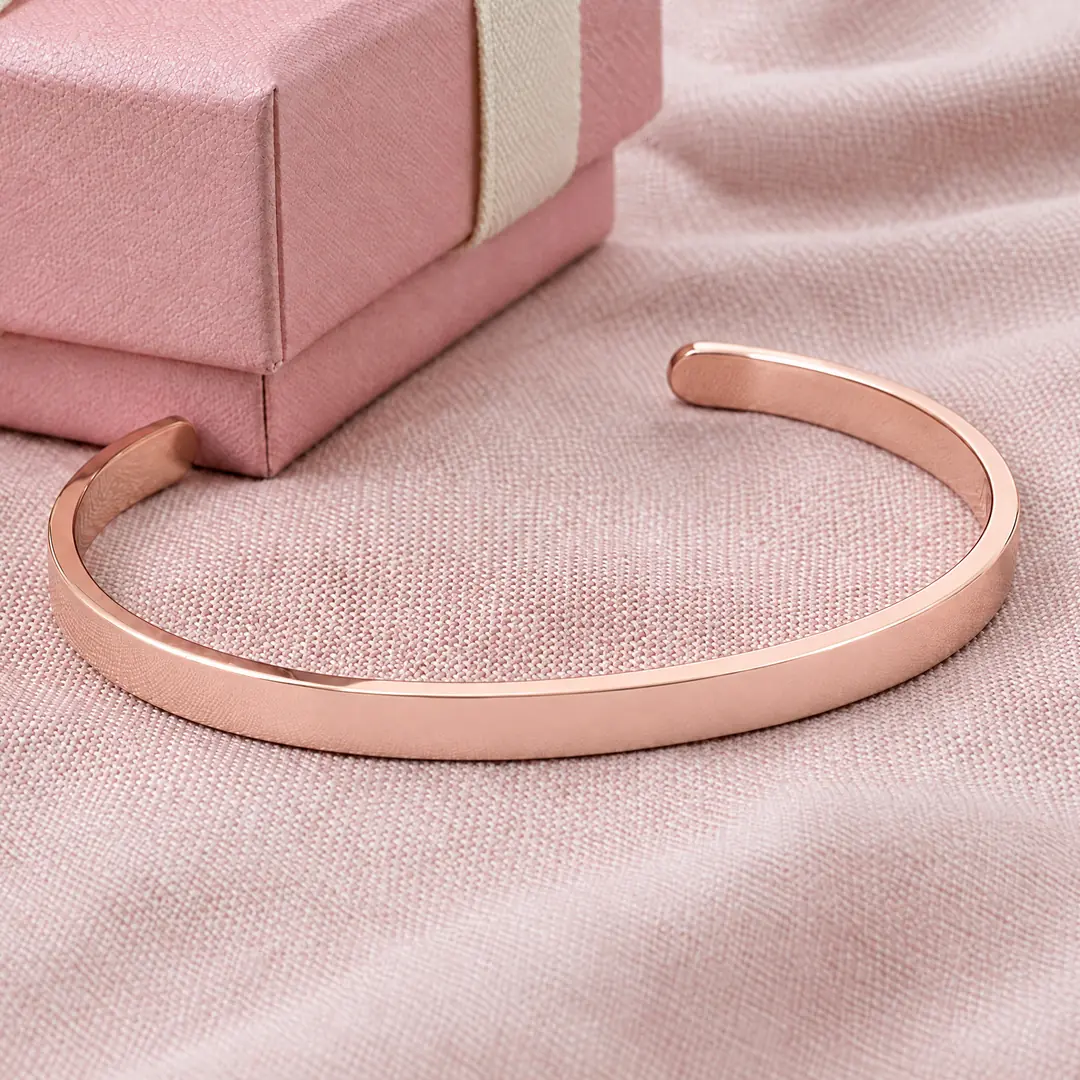
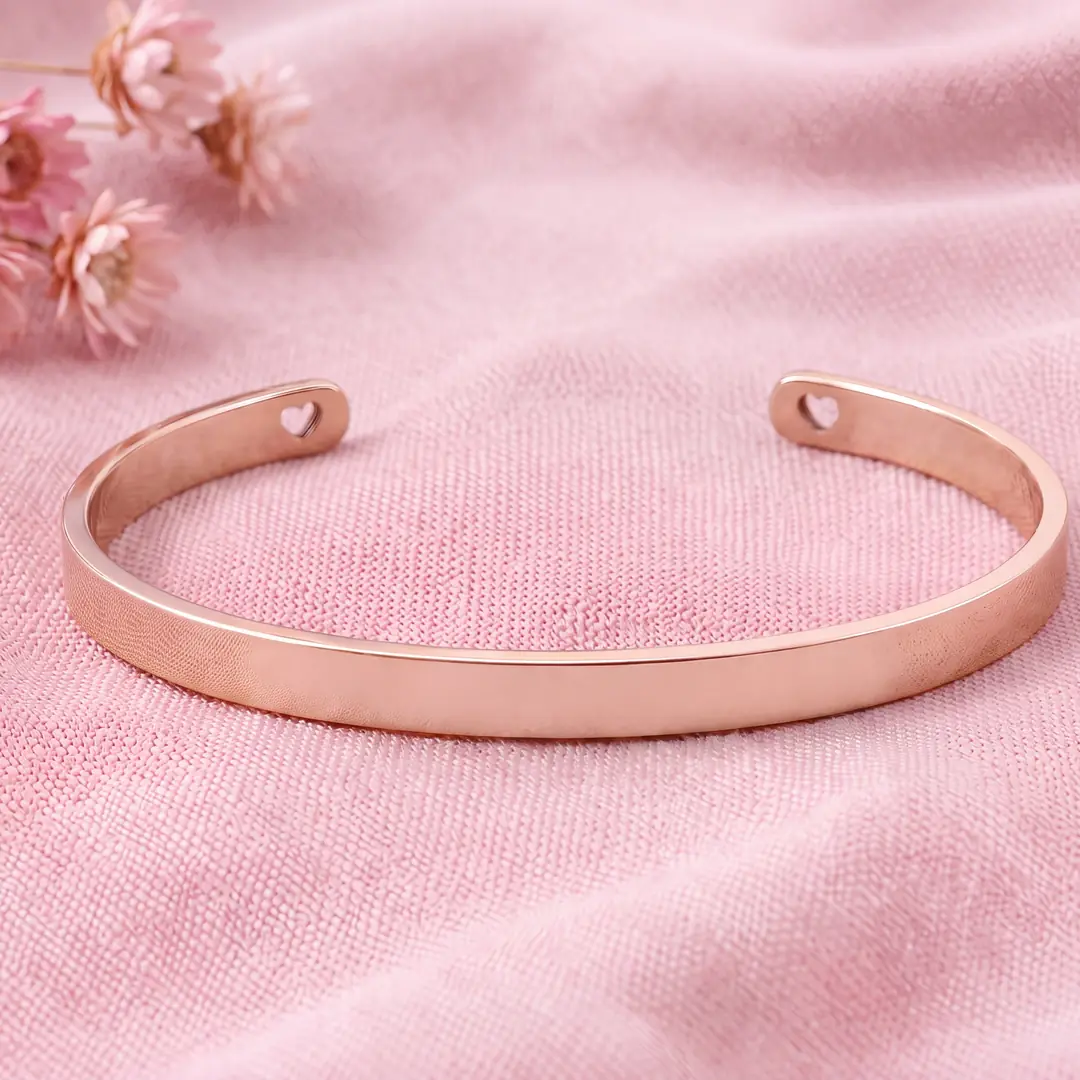
Aperçu de gravure du jonc refait avec le vrai jonc fin à cœurs (3 finitions)
Claude-Session: https://claude.ai/code/session_01V1qef2qtgCXfKwWV2d1vvY

diff --git a/theme-lou/assets/lou.js b/theme-lou/assets/lou.js
@@ -291,17 +291,19 @@
   if (LOU.cart && LOU.cart.items) { dejaDuo = LOU.cart.item_count >= 2; dessinerPanier(LOU.cart); }
 
   /* ---------- Gravure réaliste sur la photo du jonc ----------
-     Bords de la face avant mesurés sur la photo du jonc vierge (repère : recadrage 920×460 placé en x=90, y=360 de l'image
-     1024×1024 ; un point tous les 10 px à partir de x=100). Le texte est écrit à plat sur une bande « déroulée », puis replié
-     colonne par colonne entre le bord haut et le bord bas de la face (les verticales restent verticales, comme sur un cylindre) ;
-     il se resserre vers les côtés (x = cx + a·sin θ). « vue » = zone de l'image 1024 affichée (accueil : bande ; fiche : carré).
-     Si on change la photo : re-mesurer haut/bas/cx/a (méthode dans docs/journal.md, 02/11/2026). */
+     Jonc réel (05/11/2026) : jonc ouvert fin (≈ 4 mm), petit cœur ajouré à chaque extrémité. Photo vierge 3 finitions
+     contenu/lou/jonc-vierge-v3/ (même cadrage que la photo produit de la fiche). Bords de la face avant mesurés sur cette photo
+     dans le repère 1024×1024 de l'image entière (un point tous les 10 px à partir de x=100 ; dégradé de luminosité colonne par
+     colonne, moyenne des 3 finitions, lissage polynôme degré 4, écart < 2 px). Le texte est écrit à plat sur une bande
+     « déroulée », puis replié colonne par colonne entre le bord haut et le bord bas de la face (les verticales restent
+     verticales, comme sur un cylindre) ; il se resserre vers les côtés (x = cx + a·sin θ). « vue » = zone de l'image 1024
+     affichée (accueil : bande ; fiche : carré ; vignette : plein). Si on change la photo : re-mesurer (scripts/mesure_jonc.py). */
   var JONC = {
-    x0: 100, pas: 10, cx: 450, a: 410, xg: 125, xd: 800, zone: 0.78, ecrase: 0.85,
-    haut: [281.6,286.6,291.3,295.7,299.7,303.5,307.0,310.3,313.3,316.1,318.6,321.0,323.1,325.1,326.8,328.4,329.9,331.2,332.3,333.4,334.2,335.0,335.7,336.2,336.6,337.0,337.2,337.4,337.5,337.5,337.4,337.3,337.1,336.8,336.4,336.0,335.5,335.0,334.4,333.7,333.0,332.1,331.3,330.3,329.3,328.2,327.0,325.8,324.4,323.0,321.5,319.8,318.1,316.2,314.3,312.2,309.9,307.5,305.0,302.3,299.4,296.4,293.2,289.7,286.1,282.2,278.1,273.8,269.1,264.3,259.1,253.6,247.9,241.8],
-    bas: [327.1,332.4,337.5,342.2,346.6,350.7,354.5,358.1,361.4,364.4,367.2,369.8,372.2,374.4,376.4,378.3,379.9,381.4,382.7,383.9,385.0,385.9,386.7,387.4,387.9,388.4,388.7,389.0,389.1,389.2,389.2,389.1,388.9,388.6,388.3,387.8,387.3,386.8,386.1,385.4,384.6,383.7,382.8,381.8,380.6,379.4,378.1,376.8,375.3,373.7,372.0,370.2,368.3,366.3,364.1,361.8,359.4,356.8,354.1,351.1,348.1,344.8,341.3,337.6,333.8,329.6,325.3,320.7,315.8,310.7,305.2,299.5,293.5,287.1]
+    x0: 100, pas: 10, cx: 535, a: 422, xg: 215, xd: 855, zone: 0.74, ecrase: 0.85, hFace: 62,
+    haut: [579.9,586.4,592.6,598.5,604.0,609.2,614.2,618.8,623.2,627.3,631.2,634.8,638.2,641.4,644.4,647.2,649.8,652.3,654.5,656.6,658.6,660.4,662.1,663.6,665.1,666.4,667.6,668.7,669.7,670.6,671.4,672.2,672.8,673.4,673.9,674.4,674.7,675.1,675.3,675.5,675.7,675.7,675.8,675.8,675.7,675.5,675.4,675.1,674.8,674.5,674.1,673.6,673.0,672.4,671.8,671.0,670.2,669.3,668.3,667.2,666.0,664.8,663.4,661.9,660.3,658.5,656.7,654.7,652.5,650.2,647.7,645.1,642.2,639.2,636.0,632.6,628.9,625.1,620.9,616.6,611.9,607.0,601.8,596.3,590.5,584.4,577.9,571.0],
+    bas: [633.6,640.7,647.3,653.7,659.6,665.2,670.6,675.6,680.3,684.8,688.9,692.9,696.6,700.0,703.3,706.3,709.1,711.8,714.2,716.5,718.7,720.6,722.5,724.2,725.7,727.2,728.5,729.7,730.8,731.8,732.7,733.6,734.3,735.0,735.6,736.1,736.5,736.9,737.2,737.4,737.6,737.7,737.8,737.8,737.7,737.6,737.5,737.2,736.9,736.6,736.1,735.7,735.1,734.5,733.7,733.0,732.1,731.1,730.1,728.9,727.7,726.3,724.8,723.2,721.5,719.6,717.6,715.5,713.1,710.6,708.0,705.1,702.1,698.8,695.4,691.7,687.7,683.6,679.1,674.4,669.4,664.1,658.5,652.5,646.2,639.6,632.6,625.2]
   };
-  var VUES = { bande: { x0: 90, y0: 360, w: 920, h: 460 }, carre: { x0: 90, y0: 104, w: 920, h: 920 }, plein: { x0: 0, y0: 0, w: 1024, h: 1024 } };
+  var VUES = { bande: { x0: 72, y0: 380, w: 920, h: 460 }, carre: { x0: 62, y0: 124, w: 900, h: 900 }, plein: { x0: 0, y0: 0, w: 1024, h: 1024 } };
   var bordJonc = function (t, x) {
     var k = (x - JONC.x0) / JONC.pas, i = Math.max(0, Math.min(t.length - 2, Math.floor(k))), f = k - i;
     return t[i] + (t[i + 1] - t[i]) * f;
@@ -331,7 +333,7 @@
     if (!W || !H || !img.complete || !img.naturalWidth) return null;
     var dpr = Math.min(window.devicePixelRatio || 1, 2.5), vue = VUES[opts.vue || "bande"];
     canvas.width = Math.round(W * dpr); canvas.height = Math.round(H * dpr);
-    var s = canvas.width / vue.w, ox = 90 - vue.x0, oy = 360 - vue.y0, ctx = canvas.getContext("2d");
+    var s = canvas.width / vue.w, ox = -vue.x0, oy = -vue.y0, ctx = canvas.getContext("2d");
     ctx.clearRect(0, 0, canvas.width, canvas.height);
     if (opts.fond !== false) ctx.drawImage(img, 0, 0, canvas.width, canvas.height);
     if (!texte) return null;
@@ -339,7 +341,7 @@
     if (P.maj) texte = texte.toUpperCase();
     var J = JONC, thG = Math.asin((J.xg - J.cx) / J.a), thD = Math.asin((J.xd - J.cx) / J.a), dTh = thD - thG;
     // 1. Bande déroulée (sur-échantillonnée ×2)
-    var hFace = 52, SH = Math.ceil(hFace * J.zone / J.ecrase * s * 2), SW = Math.ceil(J.a * dTh * s * 2);
+    var hFace = J.hFace, SH = Math.ceil(hFace * J.zone / J.ecrase * s * 2), SW = Math.ceil(J.a * dTh * s * 2);
     var bande = calque(SW, SH), b = bande.getContext("2d");
     b.font = policeCss(P, 100); b.textBaseline = "alphabetic";
     var m = b.measureText(texte), ref = b.measureText(P.ref);

diff --git a/theme/assets/lou.js b/theme/assets/lou.js
@@ -291,17 +291,19 @@
   if (LOU.cart && LOU.cart.items) { dejaDuo = LOU.cart.item_count >= 2; dessinerPanier(LOU.cart); }
 
   /* ---------- Gravure réaliste sur la photo du jonc ----------
-     Bords de la face avant mesurés sur la photo du jonc vierge (repère : recadrage 920×460 placé en x=90, y=360 de l'image
-     1024×1024 ; un point tous les 10 px à partir de x=100). Le texte est écrit à plat sur une bande « déroulée », puis replié
-     colonne par colonne entre le bord haut et le bord bas de la face (les verticales restent verticales, comme sur un cylindre) ;
-     il se resserre vers les côtés (x = cx + a·sin θ). « vue » = zone de l'image 1024 affichée (accueil : bande ; fiche : carré).
-     Si on change la photo : re-mesurer haut/bas/cx/a (méthode dans docs/journal.md, 02/11/2026). */
+     Jonc réel (05/11/2026) : jonc ouvert fin (≈ 4 mm), petit cœur ajouré à chaque extrémité. Photo vierge 3 finitions
+     contenu/lou/jonc-vierge-v3/ (même cadrage que la photo produit de la fiche). Bords de la face avant mesurés sur cette photo
+     dans le repère 1024×1024 de l'image entière (un point tous les 10 px à partir de x=100 ; dégradé de luminosité colonne par
+     colonne, moyenne des 3 finitions, lissage polynôme degré 4, écart < 2 px). Le texte est écrit à plat sur une bande
+     « déroulée », puis replié colonne par colonne entre le bord haut et le bord bas de la face (les verticales restent
+     verticales, comme sur un cylindre) ; il se resserre vers les côtés (x = cx + a·sin θ). « vue » = zone de l'image 1024
+     affichée (accueil : bande ; fiche : carré ; vignette : plein). Si on change la photo : re-mesurer (scripts/mesure_jonc.py). */
   var JONC = {
-    x0: 100, pas: 10, cx: 450, a: 410, xg: 125, xd: 800, zone: 0.78, ecrase: 0.85,
-    haut: [281.6,286.6,291.3,295.7,299.7,303.5,307.0,310.3,313.3,316.1,318.6,321.0,323.1,325.1,326.8,328.4,329.9,331.2,332.3,333.4,334.2,335.0,335.7,336.2,336.6,337.0,337.2,337.4,337.5,337.5,337.4,337.3,337.1,336.8,336.4,336.0,335.5,335.0,334.4,333.7,333.0,332.1,331.3,330.3,329.3,328.2,327.0,325.8,324.4,323.0,321.5,319.8,318.1,316.2,314.3,312.2,309.9,307.5,305.0,302.3,299.4,296.4,293.2,289.7,286.1,282.2,278.1,273.8,269.1,264.3,259.1,253.6,247.9,241.8],
-    bas: [327.1,332.4,337.5,342.2,346.6,350.7,354.5,358.1,361.4,364.4,367.2,369.8,372.2,374.4,376.4,378.3,379.9,381.4,382.7,383.9,385.0,385.9,386.7,387.4,387.9,388.4,388.7,389.0,389.1,389.2,389.2,389.1,388.9,388.6,388.3,387.8,387.3,386.8,386.1,385.4,384.6,383.7,382.8,381.8,380.6,379.4,378.1,376.8,375.3,373.7,372.0,370.2,368.3,366.3,364.1,361.8,359.4,356.8,354.1,351.1,348.1,344.8,341.3,337.6,333.8,329.6,325.3,320.7,315.8,310.7,305.2,299.5,293.5,287.1]
+    x0: 100, pas: 10, cx: 535, a: 422, xg: 215, xd: 855, zone: 0.74, ecrase: 0.85, hFace: 62,
+    haut: [579.9,586.4,592.6,598.5,604.0,609.2,614.2,618.8,623.2,627.3,631.2,634.8,638.2,641.4,644.4,647.2,649.8,652.3,654.5,656.6,658.6,660.4,662.1,663.6,665.1,666.4,667.6,668.7,669.7,670.6,671.4,672.2,672.8,673.4,673.9,674.4,674.7,675.1,675.3,675.5,675.7,675.7,675.8,675.8,675.7,675.5,675.4,675.1,674.8,674.5,674.1,673.6,673.0,672.4,671.8,671.0,670.2,669.3,668.3,667.2,666.0,664.8,663.4,661.9,660.3,658.5,656.7,654.7,652.5,650.2,647.7,645.1,642.2,639.2,636.0,632.6,628.9,625.1,620.9,616.6,611.9,607.0,601.8,596.3,590.5,584.4,577.9,571.0],
+    bas: [633.6,640.7,647.3,653.7,659.6,665.2,670.6,675.6,680.3,684.8,688.9,692.9,696.6,700.0,703.3,706.3,709.1,711.8,714.2,716.5,718.7,720.6,722.5,724.2,725.7,727.2,728.5,729.7,730.8,731.8,732.7,733.6,734.3,735.0,735.6,736.1,736.5,736.9,737.2,737.4,737.6,737.7,737.8,737.8,737.7,737.6,737.5,737.2,736.9,736.6,736.1,735.7,735.1,734.5,733.7,733.0,732.1,731.1,730.1,728.9,727.7,726.3,724.8,723.2,721.5,719.6,717.6,715.5,713.1,710.6,708.0,705.1,702.1,698.8,695.4,691.7,687.7,683.6,679.1,674.4,669.4,664.1,658.5,652.5,646.2,639.6,632.6,625.2]
   };
-  var VUES = { bande: { x0: 90, y0: 360, w: 920, h: 460 }, carre: { x0: 90, y0: 104, w: 920, h: 920 }, plein: { x0: 0, y0: 0, w: 1024, h: 1024 } };
+  var VUES = { bande: { x0: 72, y0: 380, w: 920, h: 460 }, carre: { x0: 62, y0: 124, w: 900, h: 900 }, plein: { x0: 0, y0: 0, w: 1024, h: 1024 } };
   var bordJonc = function (t, x) {
     var k = (x - JONC.x0) / JONC.pas, i = Math.max(0, Math.min(t.length - 2, Math.floor(k))), f = k - i;
     return t[i] + (t[i + 1] - t[i]) * f;
@@ -331,7 +333,7 @@
     if (!W || !H || !img.complete || !img.naturalWidth) return null;
     var dpr = Math.min(window.devicePixelRatio || 1, 2.5), vue = VUES[opts.vue || "bande"];
     canvas.width = Math.round(W * dpr); canvas.height = Math.round(H * dpr);
-    var s = canvas.width / vue.w, ox = 90 - vue.x0, oy = 360 - vue.y0, ctx = canvas.getContext("2d");
+    var s = canvas.width / vue.w, ox = -vue.x0, oy = -vue.y0, ctx = canvas.getContext("2d");
     ctx.clearRect(0, 0, canvas.width, canvas.height);
     if (opts.fond !== false) ctx.drawImage(img, 0, 0, canvas.width, canvas.height);
     if (!texte) return null;
@@ -339,7 +341,7 @@
     if (P.maj) texte = texte.toUpperCase();
     var J = JONC, thG = Math.asin((J.xg - J.cx) / J.a), thD = Math.asin((J.xd - J.cx) / J.a), dTh = thD - thG;
     // 1. Bande déroulée (sur-échantillonnée ×2)
-    var hFace = 52, SH = Math.ceil(hFace * J.zone / J.ecrase * s * 2), SW = Math.ceil(J.a * dTh * s * 2);
+    var hFace = J.hFace, SH = Math.ceil(hFace * J.zone / J.ecrase * s * 2), SW = Math.ceil(J.a * dTh * s * 2);
     var bande = calque(SW, SH), b = bande.getContext("2d");
     b.font = policeCss(P, 100); b.textBaseline = "alphabetic";
     var m = b.measureText(texte), ref = b.measureText(P.ref);

diff --git a/scripts/assets_theme.py b/scripts/assets_theme.py
@@ -68,20 +68,15 @@ d.text((64, 62), "L", font=f, fill="white", anchor="mm")
 fv.save(os.path.join(A, "favicon.png"))
 print("favicon.png")
 
-# Atelier de gravure (accueil + fiche du jonc) : photo du jonc vierge dans les 3 finitions, recadrée autour du jonc.
-# Recadrage x 90→1010, y 360→820 du repère 1024×1024 (×2 sur les images HD 2048). Les bords de la face avant
-# (tables JONC de lou.js, repère 920×460) restent valables tant que ce recadrage et la photo ne changent pas.
-for nom, dest in [("produit-jonc-vierge-hd", "jonc-vierge.webp"), ("produit-jonc-vierge-doree-hd", "jonc-vierge-doree.webp"),
-                  ("produit-jonc-vierge-rosee-hd", "jonc-vierge-rosee.webp")]:
-    src = trouver(nom)
-    im = Image.open(src).convert("RGB"); k = im.width / 1024
-    enregistrer(im.crop((round(90 * k), round(360 * k), round(1010 * k), round(820 * k))), dest, 1080, 76)
-
-# Fiche du jonc : même photo en carré (x 90→1010, y 104→1024 du repère 1024)
-for nom, dest in [("produit-jonc-vierge-hd", "jonc-carre.webp"), ("produit-jonc-vierge-doree-hd", "jonc-carre-doree.webp"),
-                  ("produit-jonc-vierge-rosee-hd", "jonc-carre-rosee.webp")]:
-    im = Image.open(trouver(nom)).convert("RGB"); k = im.width / 1024
-    enregistrer(im.crop((round(90 * k), round(104 * k), round(1010 * k), round(1024 * k))), dest, 1080, 74)
+# Atelier de gravure (accueil + fiche du jonc) : jonc réel fin à cœurs, vierge, 3 finitions (contenu/lou/jonc-vierge-v3, 05/11).
+# Bande (accueil) : x 72→992, y 380→840 du repère 1024 ; carré (fiche) : x 62→962, y 124→1024. Ces zones = VUES de lou.js ;
+# les bords de la face (tables JONC, repère 1024 de l'image entière) restent valables tant que la photo ne change pas.
+JV = os.path.join(ROOT, "contenu/lou/jonc-vierge-v3/jonc-vierge-{}.jpg")
+for fin, bande, carre in [("argentee", "jonc-vierge.webp", "jonc-carre.webp"), ("doree", "jonc-vierge-doree.webp", "jonc-carre-doree.webp"),
+                          ("rosee", "jonc-vierge-rosee.webp", "jonc-carre-rosee.webp")]:
+    im = Image.open(JV.format(fin)).convert("RGB"); k = im.width / 1024
+    enregistrer(im.crop((round(72 * k), round(380 * k), round(992 * k), round(840 * k))), bande, 1080, 76)
+    enregistrer(im.crop((round(62 * k), round(124 * k), round(962 * k), round(1024 * k))), carre, 1080, 74)
 
 # Collier prénom (aperçu en direct) : chaîne sans pendentif, 3 finitions. Le bas des deux brins (sous y = 640, anneaux
 # compris) est effacé : le thème redessine les brins jusqu'aux bords du prénom, qui s'écartent ou se resserrent selon
@@ -128,7 +123,7 @@ enregistrer(Image.open(trouver("produit-collier-photo-1-hd", "produit-collier-ph
 
 # Vignettes produits animées (lou.js) : jonc vierge plein cadre (même cadrage que la photo produit), collier sans prénom,
 # photos d'exemple pour la bulle du collier photo
-enregistrer(Image.open(trouver("produit-jonc-vierge-hd")).convert("RGB"), "jonc-vierge-plein.webp", 560, 74)
+enregistrer(Image.open(JV.format("argentee")).convert("RGB"), "jonc-vierge-plein.webp", 560, 74)   # même cadrage que la photo produit (fiches-v3/jonc-1-produit)
 enregistrer(Image.open(os.path.join(A, "collier-vierge.webp")).convert("RGB"), "collier-vierge-carte.webp", 560, 74)
 _cp = Image.open(trouver("produit-collier-photo-1-hd")).convert("RGB").resize((1200, 1200), Image.LANCZOS)
 enregistrer(_cp.crop((724, 274, 1053, 603)), "souvenir-couple.webp", 320, 76)

diff --git a/scripts/mesure_jonc.py b/scripts/mesure_jonc.py
@@ -1,0 +1,26 @@
+"""Mesure les bords de la face avant du jonc vierge (contenu/lou/jonc-vierge-v3, repère 1024) → tables JONC de theme-lou/assets/lou.js.
+Lancer depuis la racine du dépôt : python3 scripts/mesure_jonc.py (les estimations visuelles xs/ht/bs guident la détection)."""
+from PIL import Image, ImageFilter; import numpy as np
+xs=[130,180,230,280,330,430,530,550,600,650,700,750,800,850,900,950]
+ht=[610,628,645,658,666,673,678,677,675,672,666,660,649,635,617,592]
+bs=[663,685,707,720,728,737,740,740,738,736,730,723,713,700,683,657]
+P=lambda x,t: np.interp(x,xs,t)
+res={}
+for n in ['argentee','doree','rosee']:
+  im=np.asarray(Image.open(f'contenu/lou/jonc-vierge-v3/jonc-vierge-{n}.jpg').convert('L').resize((1024,1024),Image.LANCZOS).filter(ImageFilter.GaussianBlur(1)),float)
+  g=np.diff(im,axis=0)
+  H=[];B=[]
+  for x in range(140,941,10):
+    e=int(P(x,ht)); w=g[e-12:e+12,x-2:x+3].mean(1); H.append(e-12+np.argmin(w)+0.5)
+    e=int(P(x,bs)); w=g[e-12:e+12,x-2:x+3].mean(1); B.append(e-12+np.argmin(w)+0.5)
+  res[n]=(np.array(H),np.array(B))
+X=np.arange(140,941,10)
+for n,(H,B) in res.items(): print(n,'H',H.astype(int).tolist()); print(n,'B',B.astype(int).tolist())
+H=np.mean([res[n][0] for n in res],0); B=np.mean([res[n][1] for n in res],0)
+ok=(X>=150)&(X<=890)
+ph=np.polyfit(X[ok],H[ok],4); pb=np.polyfit(X[ok],B[ok],4)
+print('err H',np.abs(np.polyval(ph,X[ok])-H[ok]).max(),'err B',np.abs(np.polyval(pb,X[ok])-B[ok]).max())
+xx=np.arange(100,971,10)
+print('haut: ['+','.join(f'{v:.1f}' for v in np.polyval(ph,xx))+'],')
+print('bas: ['+','.join(f'{v:.1f}' for v in np.polyval(pb,xx))+']')
+print('h centre', np.polyval(pb,535)-np.polyval(ph,535))

diff --git a/docs/reprise.md b/docs/reprise.md
@@ -29,8 +29,9 @@ L'utilisateur passe sur un **nouveau compte Claude** (plus de crédit sur l'anci
 - Balise Pinterest connectée (événements reçus) ; règles, textes du compte, CSV d'un mois d'épingles prêts (`docs/pinterest-*.md`).
 
 ### Prochaines étapes (liste complète : `docs/avant-annonces.md`)
-1. **Claude** : refaire l'aperçu de gravure du jonc (encore l'ancien jonc large sans cœurs : `jonc-vierge*.webp`, `jonc-carre*.webp`,
-   tables JONC de lou.js) ; puis visuels de pub Pinterest 2:3 + plan de campagne (crédit 420 €).
+1. ✅ (05/11, nouveau compte) aperçu de gravure du jonc refait avec le jonc fin à cœurs (`contenu/lou/jonc-vierge-v3/`, tables JONC
+   de lou.js en repère 1024, `scripts/mesure_jonc.py`). **Claude** : visuels de pub Pinterest 2:3 + plan de campagne (crédit 420 €).
+   ⚠ Réseau du nouvel environnement : api.pinterest.com, cdn.shopify.com, lesmotsdelou.fr encore bloqués (403) au 05/11.
 2. **Utilisateur** : boutique ouverte au public ? DSers relié + 1 vraie commande test payée ; compte pub Pinterest + crédit 420 € +
    catalogue « actif » ; **médiateur de la consommation + SIREN** (obligatoires, à donner à Claude) ; GA4 (ID G-…) ; Search Console.
 3. Corps-Confiant : même bug de bandeau cookies probable (`cc-base.js`) → à corriger dans une session Corps-Confiant.
@@ -51,7 +52,7 @@ L'utilisateur passe sur un **nouveau compte Claude** (plus de crédit sur l'anci
   porté. Jonc : nouvelle photo produit fine avec cœurs (sans coffret), détail cœurs, 3 finitions, poignet, Lou, café. Collier prénom :
   photo produit + finitions, cou « Lou », Lou, marché de Noël. Collier photo : produit, cou, Lou devant la cheminée. Morse : produit,
   macro, carte de Noël, Lou. Textes alternatifs avec « Image virtuelle » quand c'est porté.
-- ⚠ **Reste incohérent : l'« aperçu en direct » du jonc** (1re vue de la fiche, atelier de gravure de l'accueil, vignette animée)
+- ✅ (05/11) ~~Reste incohérent : l'« aperçu en direct » du jonc~~ (1re vue de la fiche, atelier de gravure de l'accueil, vignette animée)
   utilise encore l'ancien jonc large sans cœurs (`jonc-vierge*.webp`, `jonc-carre*.webp`) → refaire un jonc vierge fin à cœurs
   (3 finitions) et re-mesurer la face gravable (tables JONC de lou.js). Idem collier prénom/photo : photos produit encore v2.
 

diff --git a/docs/journal.md b/docs/journal.md
@@ -422,3 +422,15 @@
 ## 2026-11-05 (soir) — Passage à un nouveau compte Claude
 - L'utilisateur change de compte (plus de crédit). `docs/reprise.md` : bloc « État au 05/11 soir » en tête (environnement à
   recréer, fait, prochaines étapes). Prompt de reprise donné à l'utilisateur.
+
+## 2026-11-05 (soir) — Nouveau compte : environnement vérifié + aperçu de gravure du jonc refait
+- Environnement : SHOPIFY_STORE = xs4brq-7y.myshopify.com, `shopify.py check` = « Les Mots De Lou » ✅ ; FAL_KEY présente ✅ ;
+  fal.run / rest.fal.ai ✅. ❌ **api.pinterest.com, cdn.shopify.com, lesmotsdelou.fr refusés par le réseau (403)** → à ajouter
+  aux domaines autorisés de l'environnement (utilisateur).
+- **Aperçu de gravure du jonc** (atelier de l'accueil, 1re vue de la fiche, vignette animée) : refait avec le **jonc réel fin à
+  cœurs**. Photo vierge = la photo produit de la fiche (`fiches-v3/jonc-1-produit.jpg`) sans la gravure, Nano Banana Pro 4K,
+  3 finitions (`contenu/lou/jonc-vierge-v3/`, ≈ 0,90 $). Bords de la face mesurés (`scripts/mesure_jonc.py`, identiques sur les
+  3 finitions, écart < 2 px) ; tables JONC de lou.js désormais dans le repère 1024 de l'image entière (cx 535, a 422, face 62 px),
+  VUES bande 72/380/920×460, carré 62/124/900. `assets_theme.py` mis à jour (recadrages). Testé au banc (iPhone 13 + ordinateur,
+  textes court/long, 3 finitions, fiche avec ?texte=&finition=, vignette ; 0 erreur JS) puis envoyé (8 fichiers).
+  Captures : `docs/captures/2026-11-05-jonc-fin-*.jpg`.

diff --git a/CLAUDE.md b/CLAUDE.md
@@ -47,8 +47,8 @@ on y reprend les outils et la méthode, mais **les deux boutiques ne se mélange
   Vérifier un recadrage à 100 % avant d'envoyer. **Images du site en pleine définition** (demande utilisateur « vraiment en 4K »,
   03/11) ; les petits détails (gravure, prénom) sont flous sur un plan large → toujours prévoir un gros plan dédié. Ses photos d'exemple (selfies) = jamais envoyées au modèle.
 - **Jonc réel (photo fournisseur envoyée le 03/11)** : jonc ouvert **fin (≈ 4 mm)**, acier argenté poli, face plate gravée,
-  **un petit cœur ajouré à chaque extrémité** (à l'arrière du poignet). C'est la seule différence avec les images IA actuelles
-  (qui ont aussi un jonc plus large) → images du jonc (fiche + aperçu de gravure du thème) à refaire et à envoyer sur Shopify.
+  **un petit cœur ajouré à chaque extrémité** (à l'arrière du poignet). Fiches et aperçu de gravure (atelier, fiche, vignette) refaits avec ce jonc (05/11 :
+  `contenu/lou/jonc-vierge-v3/` 3 finitions vierges, tables JONC de lou.js en repère 1024, `scripts/mesure_jonc.py`).
 - **Politiques (décision utilisateur 03/11) = exactement celles de Corps-Confiant**, même éditeur, sauf l'e-mail
   **`contact@lesmotsdelou.fr`** et les retours (bijoux personnalisés : pas de rétractation, L221-28 3° ; correction/annulation
   tant que la fabrication n'a pas commencé ; garantie légale 2 ans, frais à notre charge). Modèles : `contenu/politiques/*.html`

diff --git a/docs/avant-annonces.md b/docs/avant-annonces.md
@@ -25,7 +25,7 @@ Légende : 🔴 bloquant pour les annonces · 🟠 important · 🟢 confort. «
 ## 3. Cohérence du site (règle Pinterest du 12/11 : pas de produit déformé par l'IA)
 | | Quoi | Qui | État |
 |---|---|---|---|
-| 🔴 | Aperçu de gravure **en direct** du jonc (fiche + atelier de l'accueil + vignette) : encore l'**ancien jonc large sans cœurs** → refaire avec le jonc fin à cœurs (3 finitions) | Claude | à faire |
+| ✅ | Aperçu de gravure **en direct** du jonc (fiche + atelier de l'accueil + vignette) refait avec le **jonc fin à cœurs** (3 finitions), testé au banc, envoyé | Claude | fait 05/11 |
 | 🟠 | Comparer toutes les photos produits aux vraies photos fournisseur, refaire si écart (forme, largeur, couleur) | Claude (après les photos DSers) | à faire |
 | 🟢 | Supprimer / archiver les commandes test à 0 € (statistiques propres) | Vous | optionnel |
 
